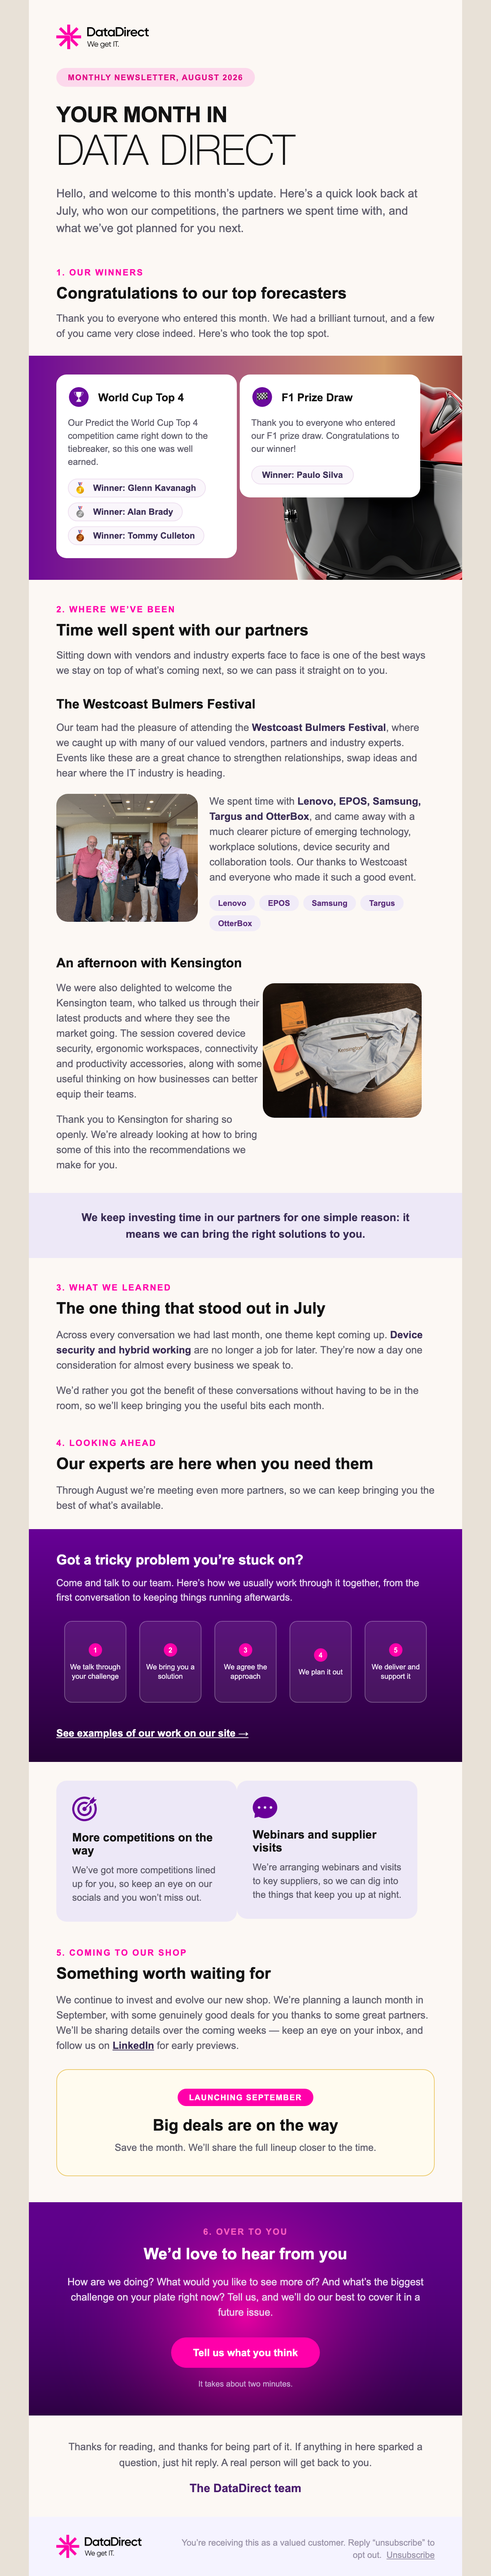
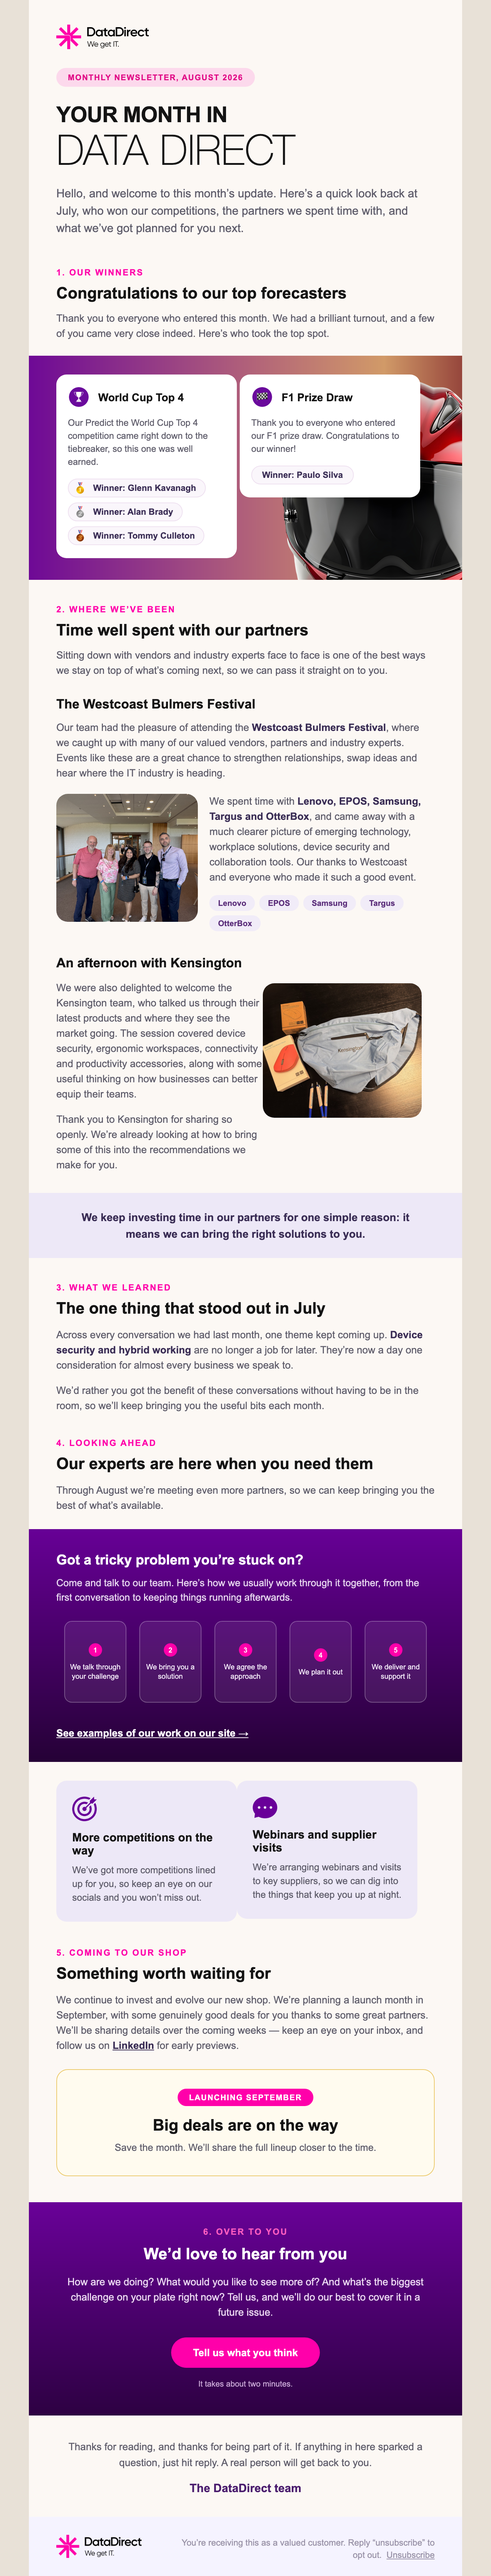
newsletter: over-to-you band exact Figma gradient (#690198 -> #240135)
Replace magenta-glow bg with the plain vertical gradient from Figma 8:106.

Changed region(s): [[0.2162, 0.8411, 0.7721, 0.9346]]

diff --git a/monthly-newsletter/index.html b/monthly-newsletter/index.html
@@ -322,7 +322,7 @@
           <td style="padding:30px 0 0 0;">
             <table role="presentation" width="100%" cellpadding="0" cellspacing="0" border="0"
                    background="images/overto-bg.png"
-                   style="background-color:#56017c; background-image:url('images/overto-bg.png'); background-size:cover; background-position:center; background-repeat:no-repeat;">
+                   style="background-color:#4d0b70; background-image:url('images/overto-bg.png'); background-size:cover; background-position:center top; background-repeat:no-repeat;">
               <tr><td class="px" align="center" style="padding:34px 44px 38px 44px;">
                 <div style="font-family:Arial,Helvetica,sans-serif; font-size:12px; font-weight:700; letter-spacing:1.5px; text-transform:uppercase; color:#ff5cc0; text-align:center;">6. Over to you</div>
                 <div style="margin-top:10px; font-family:Arial,Helvetica,sans-serif; font-size:22px; line-height:28px; font-weight:800; color:#ffffff; text-align:center;">We&rsquo;d love to hear from you</div>
